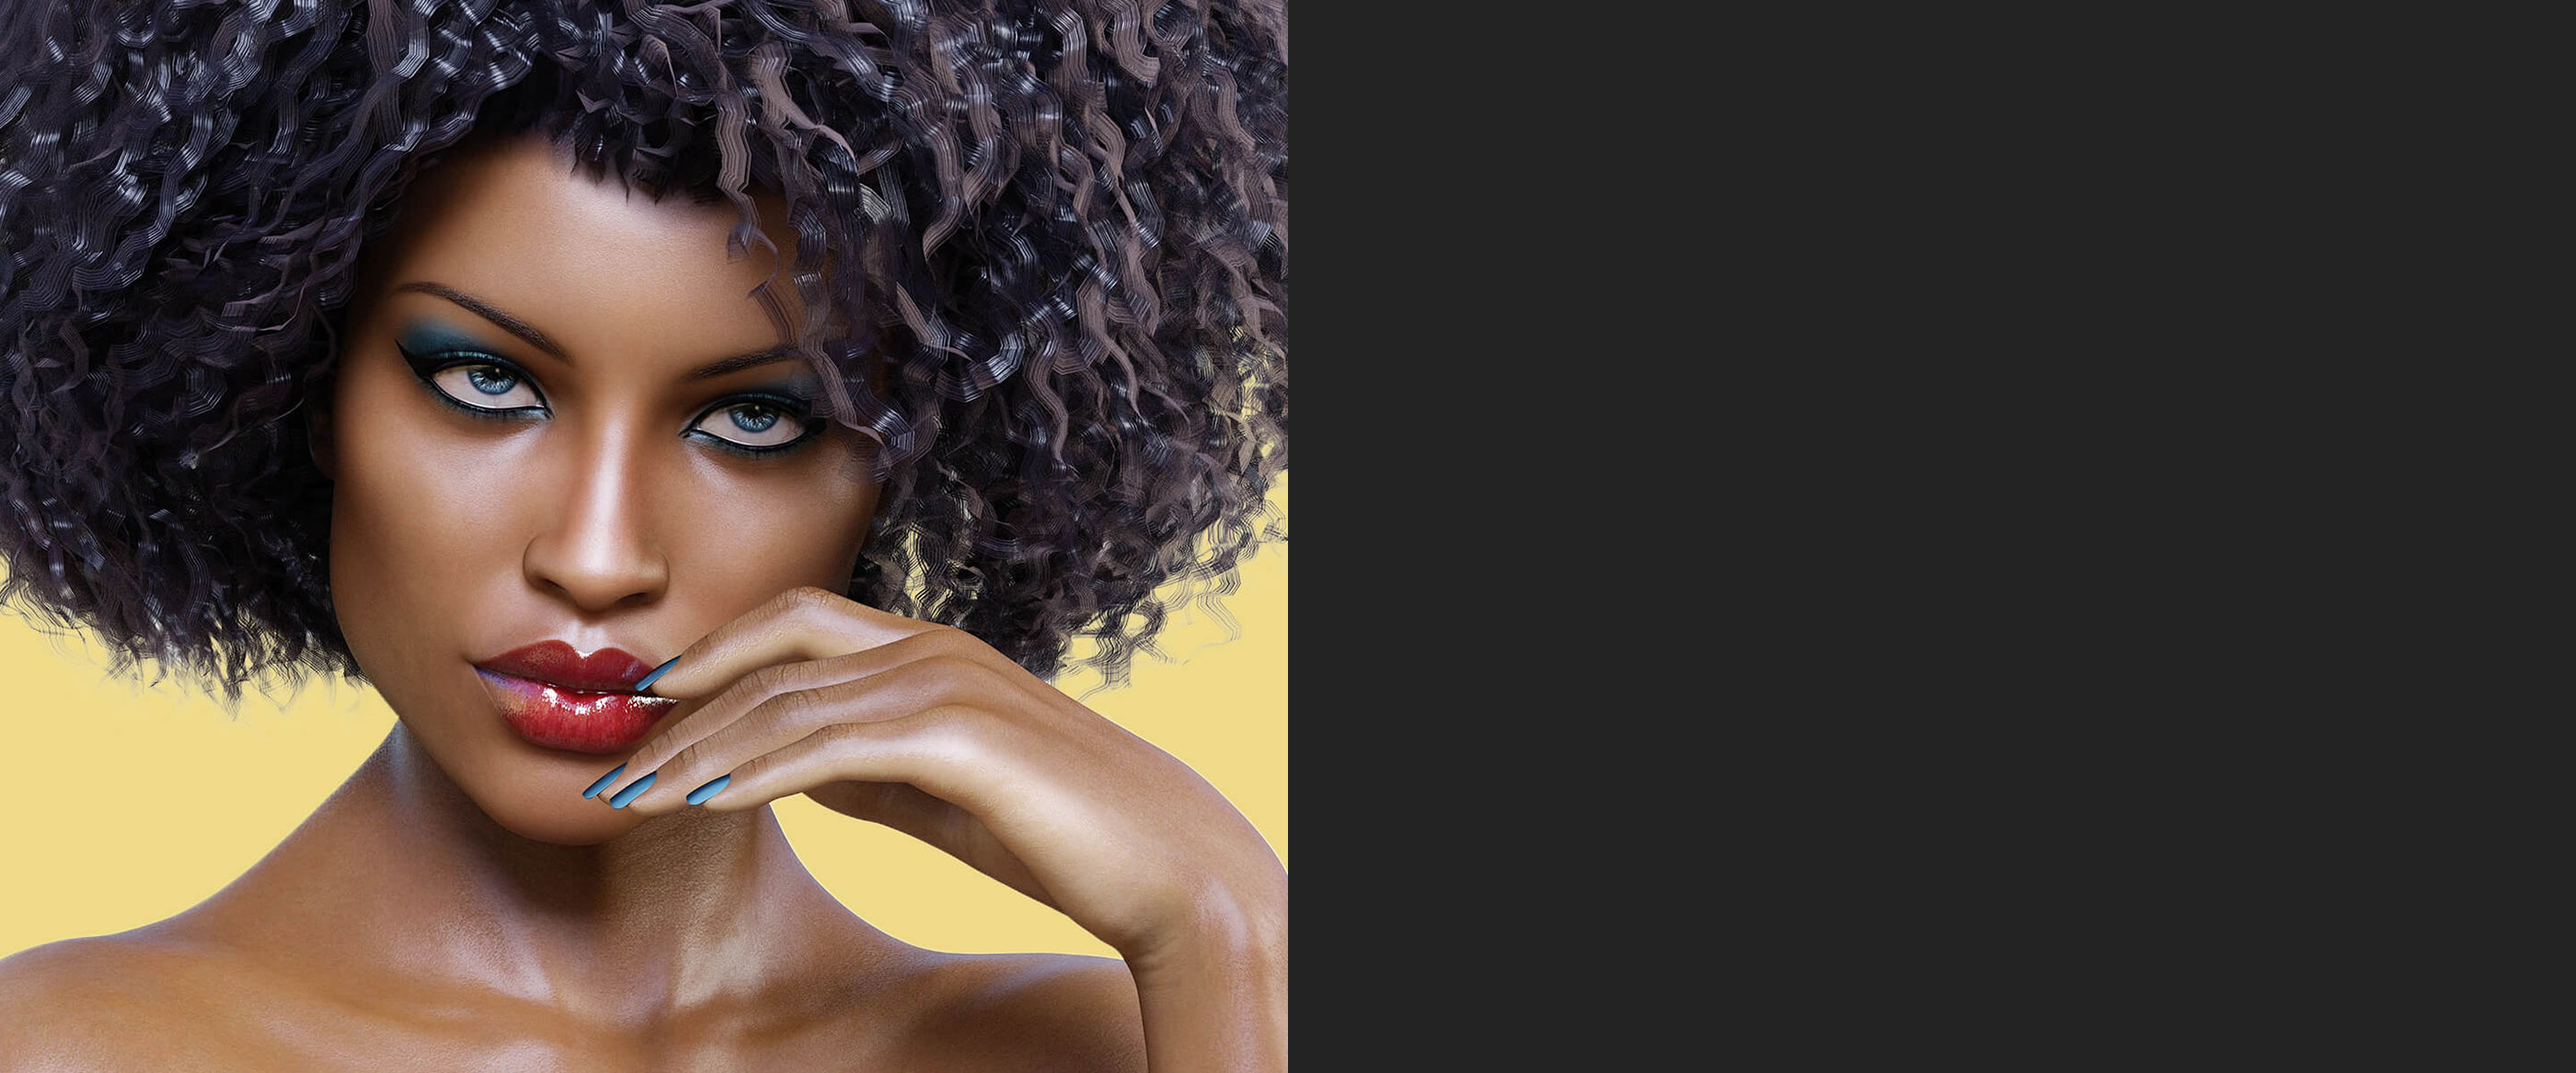
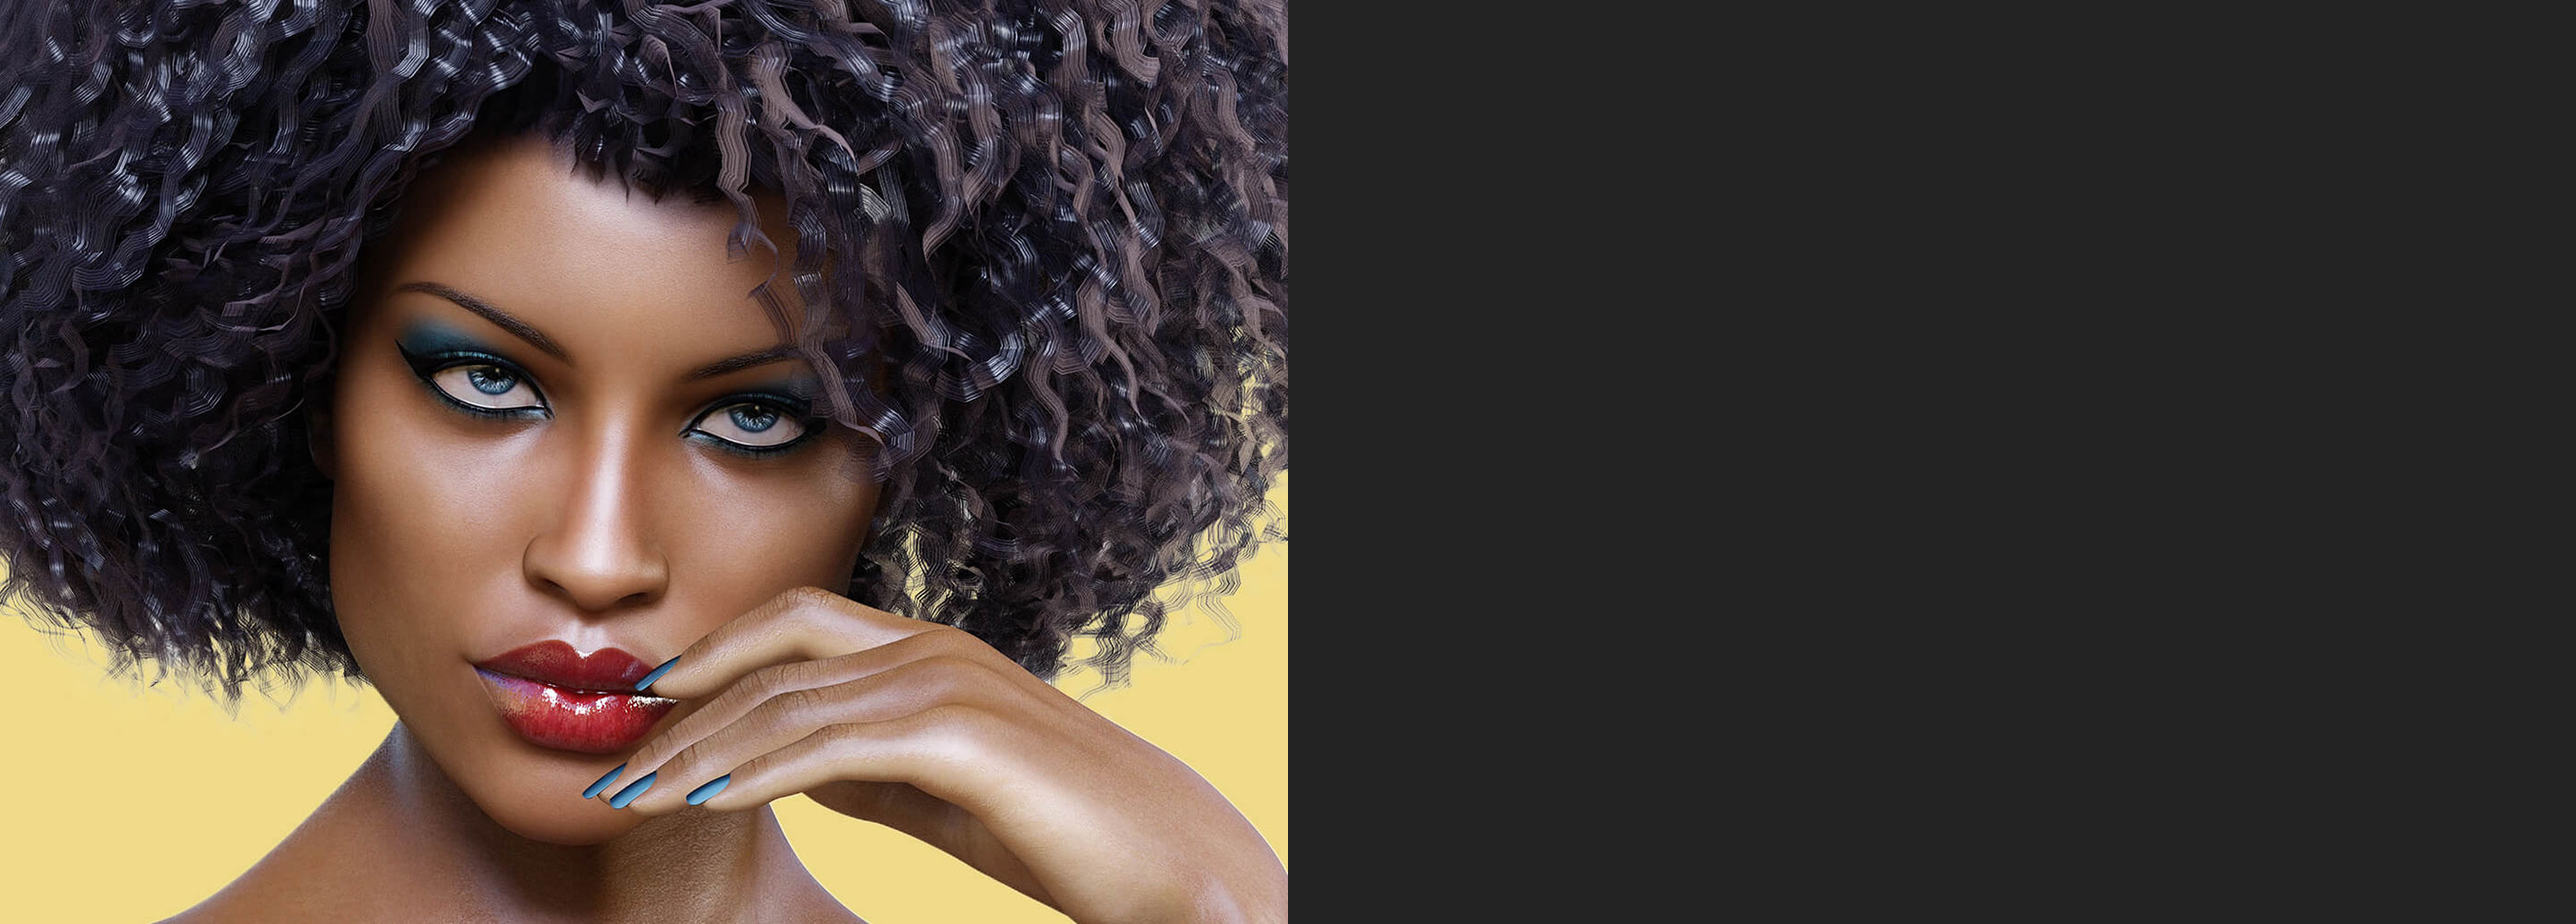
modified an image size

diff --git a/styles2.css b/styles2.css
@@ -2306,7 +2306,7 @@ ul#portfolio li:hover span {
     background-image: url(images/aircraft_interior2.jpg);
 }
 .virtualMakeoverPage .parallax-left {
-  background-image: url(images/makeover_visualizer3.jpg);
+  background-image: url(images/makeover_visualizer2.jpg);
 }
 
 .parallax-left {
@@ -2329,7 +2329,7 @@ ul#portfolio li:hover span {
   }
 
   .aircraftVisualizerPage .parallax-left {
-    background-image: url(images/aircraft_visualizer.jpg);
+    background-image: url(images/aircraft_visualizer3.jpg);
   }
   .aircraftVisualizerPage .parallax-right {
       background-image: url(images/aircraft_interior.jpg);
